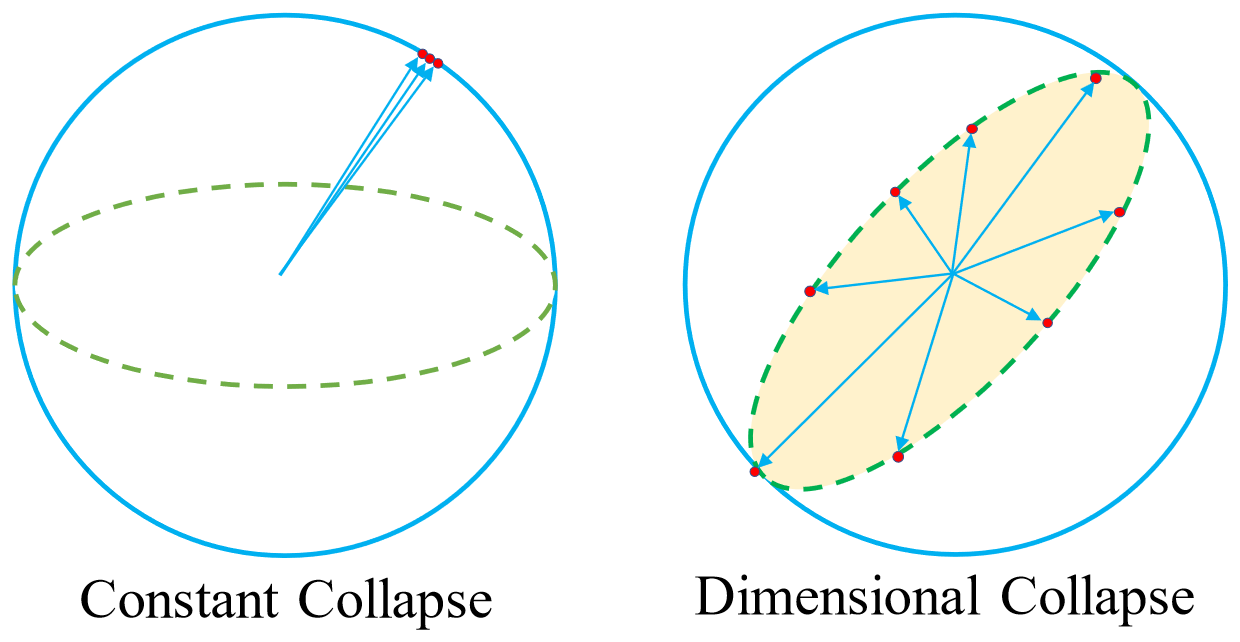
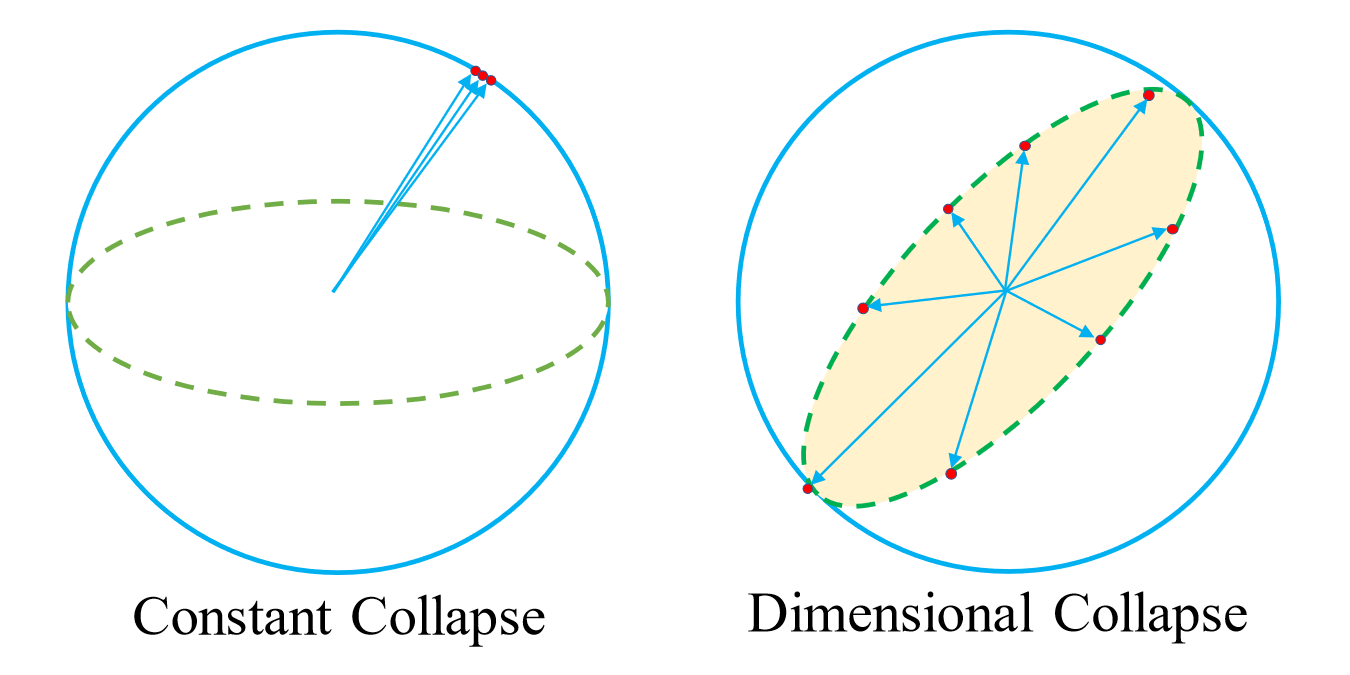
6.25 updates

diff --git a/index.html b/index.html
@@ -18,7 +18,7 @@
       <a href="#top" target="_self">Xianghong Fang</a>
       <a href="#news" target="_self">News</a>
       <a href="#publications" target="_self">Publications</a>
-      <a href="#service" target="_self">Academic Activities</a>
+      <a href="#activities" target="_self">Academic Activities</a>
     </nav>
   </header>
 
@@ -219,7 +219,7 @@
       </article>
     </section>
 
-    <section id="service">
+    <section id="activities">
       <h2>Academic Activities</h2>
       <div class="activity-block">
         <h3>Reviewer</h3>